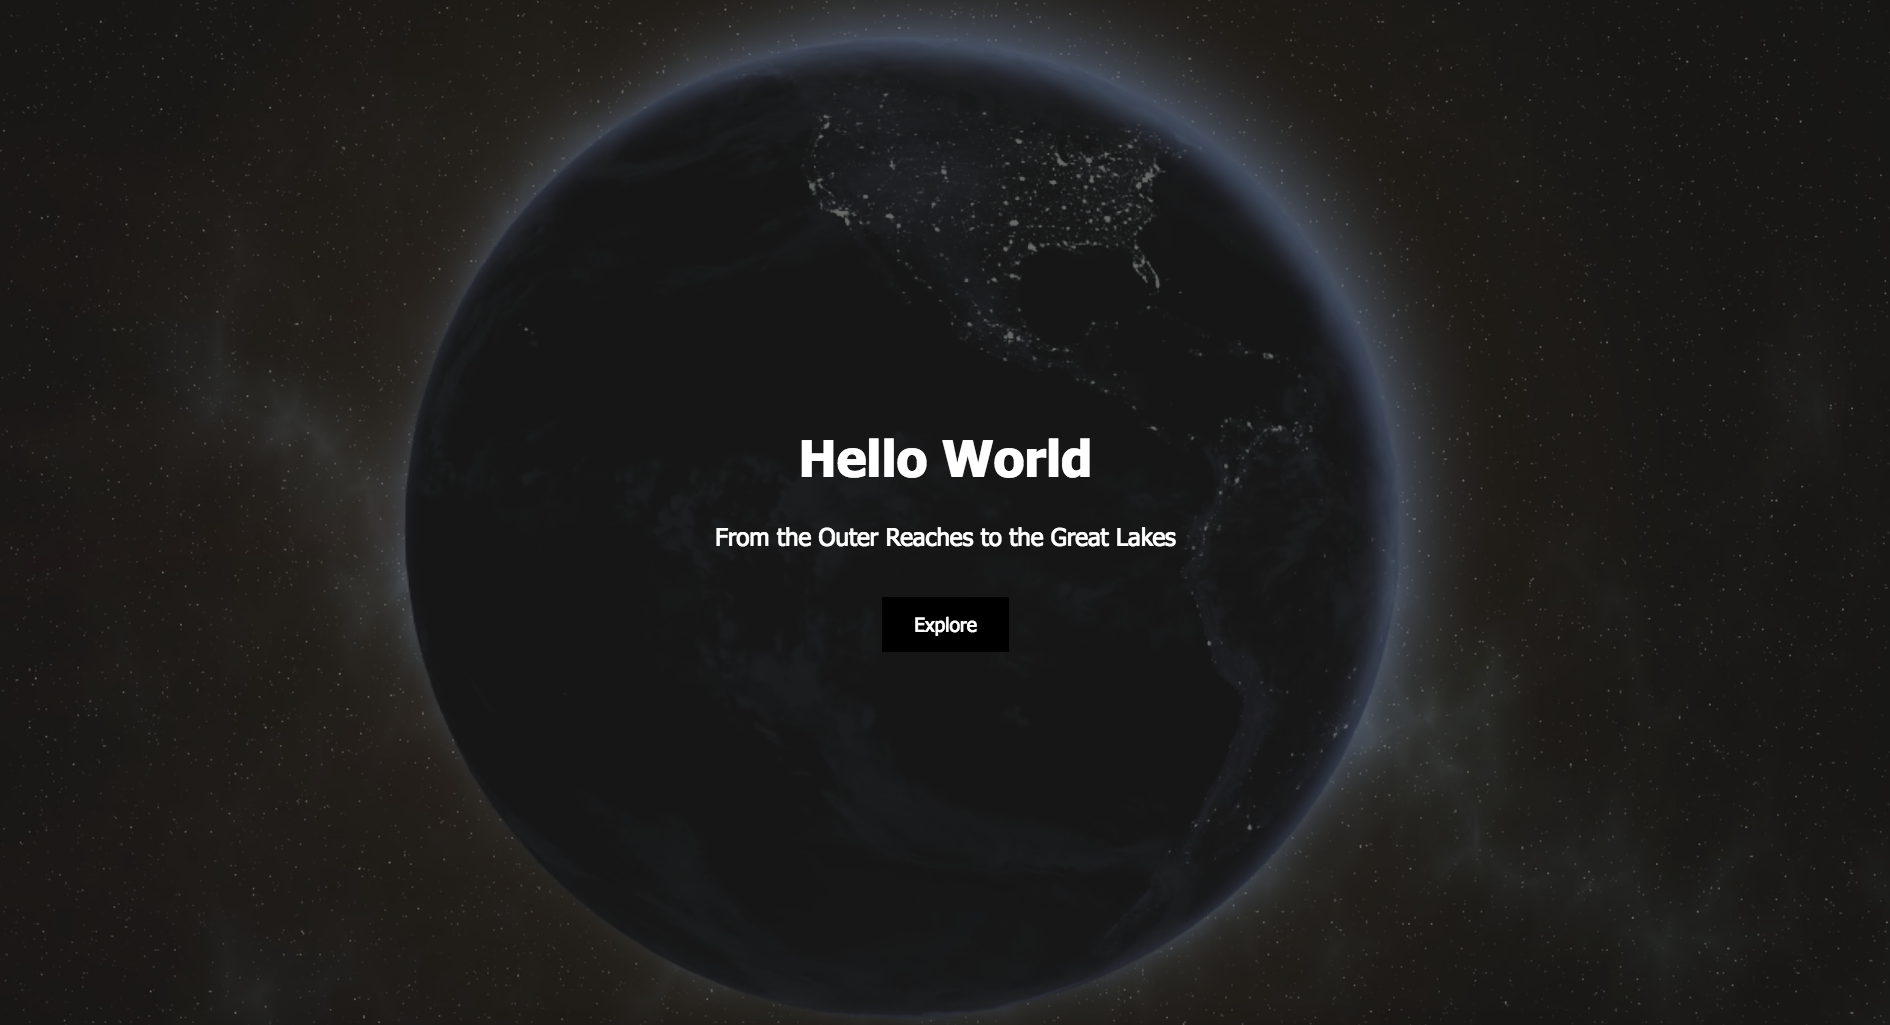
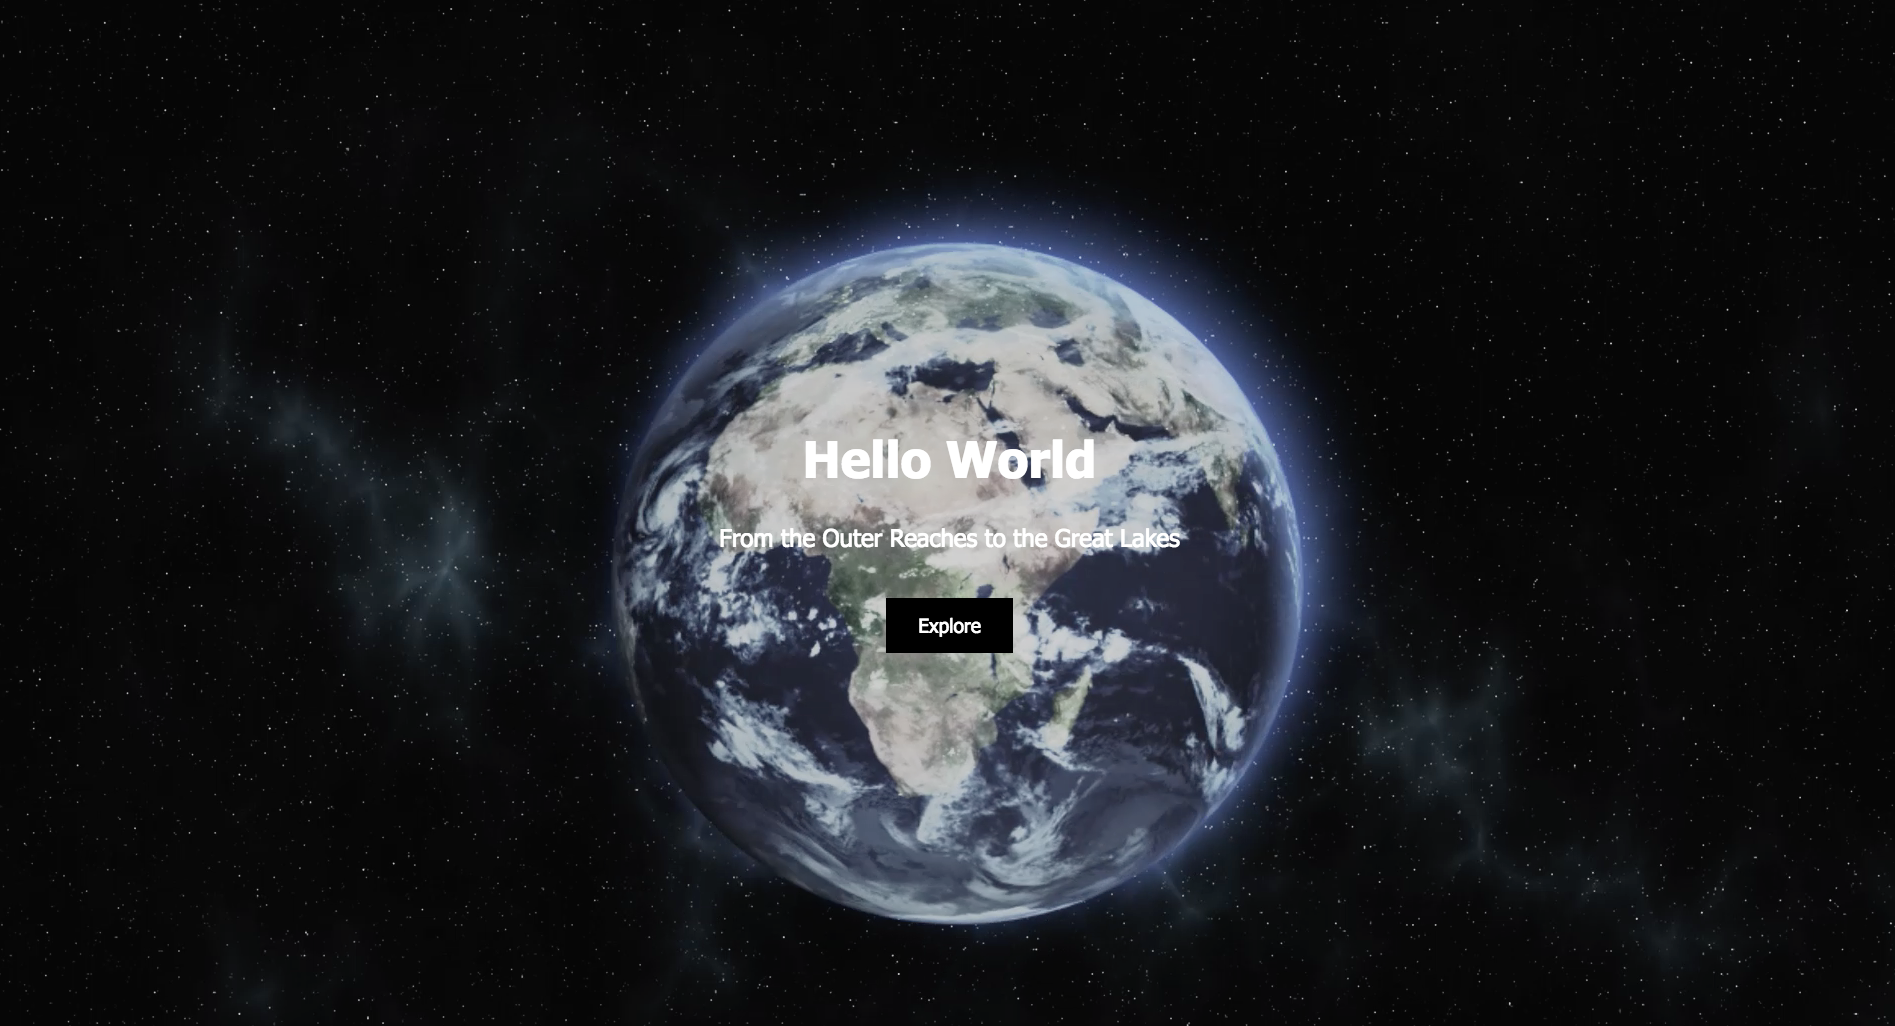
updated README

diff --git a/styles.css b/styles.css
@@ -49,7 +49,7 @@ body {
   /* background: #225470; */
   background: #1E1E1E;
   z-index: 1;
-  opacity: 0.65;
+  opacity: 0.20;
 }
 
 .header-content {

diff --git a/README.md b/README.md
@@ -1,7 +1,11 @@
-![Video Background](video-background-view2.png)
-
 ## Video Background
 
 Fullscreen video background with HTML and CSS
 
 Video from Videvo
+
+![Video Background](video-background-view1.png)
+
+![Video Background](video-background-view2.png)
+
+![Video Background](video-background-view3.png)
